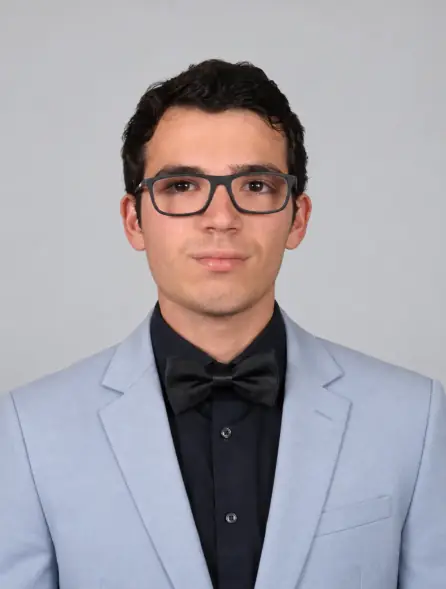
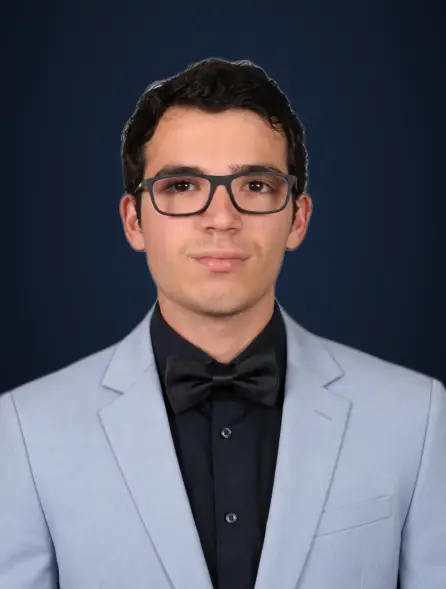
fix(perf,ui): eliminate homepage hydration CLS, blend portrait background, and simplify about section

diff --git a/src/components/sections/About.tsx b/src/components/sections/About.tsx
@@ -6,22 +6,11 @@ import { skills } from '../../data/skills';
 import { languages } from '../../data/education';
 import { useLanguage } from '../../context/LanguageContext';
 import { Icon } from '../icons/Icon';
-import { CrossfadeGallery, type GalleryImage } from '../ui/CrossfadeGallery';
-import { CALM_TRANSITION_EFFECTS } from '../ui/image-transitions/effects';
 import { EducationCard } from './EducationCard';
 import { AntsCursor } from '../ui/AntsCursor';
 import './About.css';
 
-const portraits: Record<'es' | 'en', GalleryImage[]> = {
-  es: [
-    { ...imageAssets['/images/portraits/diego-carnet.webp'], sizes: '(max-width: 768px) 300px, 360px', alt: 'Diego De Pablo con traje azul y gafas', position: 'center 22%' },
-    { ...imageAssets['/images/portraits/diego-formal.webp'], sizes: '(max-width: 768px) 300px, 360px', alt: 'Diego De Pablo con traje formal', position: 'center 22%' },
-  ],
-  en: [
-    { ...imageAssets['/images/portraits/diego-carnet.webp'], sizes: '(max-width: 768px) 300px, 360px', alt: 'Diego De Pablo in blue suit with glasses', position: 'center 22%' },
-    { ...imageAssets['/images/portraits/diego-formal.webp'], sizes: '(max-width: 768px) 300px, 360px', alt: 'Diego De Pablo in formal attire', position: 'center 22%' },
-  ],
-};
+const portraitAsset = imageAssets['/images/portraits/diego-carnet.webp'];
 
 export const About: React.FC = () => {
   const { lang } = useLanguage();
@@ -108,14 +97,16 @@ export const About: React.FC = () => {
 
         <div className="about-image">
           <div className="about-image__frame">
-            <CrossfadeGallery
-              images={portraits[lang]}
-              interval={7_000}
-              initialIndex={1}
-              className="about-portrait-gallery"
-              showControls
-              label={lang === 'en' ? 'Choose Diego portrait' : 'Elegir retrato de Diego'}
-              effects={CALM_TRANSITION_EFFECTS}
+            <img
+              src={portraitAsset.src}
+              srcSet={portraitAsset.srcSet}
+              sizes="(max-width: 768px) 300px, 360px"
+              width={portraitAsset.width}
+              height={portraitAsset.height}
+              alt={lang === 'en' ? 'Diego De Pablo in formal suit with glasses' : 'Diego De Pablo con traje formal y gafas'}
+              className="about-image__img"
+              loading="lazy"
+              decoding="async"
             />
             <div className="about-image__tint" aria-hidden="true" />
           </div>

diff --git a/src/main.tsx b/src/main.tsx
@@ -15,7 +15,10 @@ async function bootstrap() {
   const routeOverrides: RouteOverrides = {};
   if (root.dataset.prerendered && prerenderedPath === currentPath) {
     try {
-      if (currentPath === '/projects') {
+      if (currentPath === '/') {
+        const mod = await import('./components/pages/HomePage');
+        routeOverrides.HomePage = mod.HomePage;
+      } else if (currentPath === '/projects') {
         const mod = await import('./components/pages/ProjectsPage');
         routeOverrides.ProjectsPage = mod.ProjectsPage;
       } else if (currentPath.startsWith('/projects/')) {
@@ -27,13 +30,18 @@ async function bootstrap() {
       } else if (currentPath.startsWith('/blog/')) {
         const mod = await import('./components/blog/BlogPost');
         routeOverrides.BlogPost = mod.BlogPost;
+      } else if (currentPath === '/experience') {
+        const mod = await import('./components/sections/Experience');
+        routeOverrides.Experience = mod.Experience;
       }
     } catch (error) {
       const FailedRoute = () => { throw error; };
-      if (currentPath === '/projects') routeOverrides.ProjectsPage = FailedRoute;
+      if (currentPath === '/') routeOverrides.HomePage = FailedRoute;
+      else if (currentPath === '/projects') routeOverrides.ProjectsPage = FailedRoute;
       else if (currentPath.startsWith('/projects/')) routeOverrides.ProjectDetailPage = FailedRoute;
       else if (currentPath === '/blog') routeOverrides.BlogList = FailedRoute;
       else if (currentPath.startsWith('/blog/')) routeOverrides.BlogPost = FailedRoute;
+      else if (currentPath === '/experience') routeOverrides.Experience = FailedRoute;
     }
   }
 

diff --git a/src/App.tsx b/src/App.tsx
@@ -28,6 +28,7 @@ export interface RouteOverrides {
   BlogList?: React.ComponentType<any>;
   BlogPost?: React.ComponentType<any>;
   NotFoundPage?: React.ComponentType<any>;
+  Experience?: React.ComponentType<any>;
 }
 
 const FAVORITE_PALETTE_CHANCE = 0.4;
@@ -119,6 +120,7 @@ function MainApp({ routeOverrides }: { routeOverrides?: RouteOverrides } = {}) {
   const ResolvedBlogList = routeOverrides?.BlogList ?? BlogList;
   const ResolvedBlogPost = routeOverrides?.BlogPost ?? BlogPost;
   const ResolvedNotFoundPage = routeOverrides?.NotFoundPage ?? NotFoundPage;
+  const ResolvedExperience = routeOverrides?.Experience ?? ExperienceSection;
 
   const [currentPalette, setCurrentPalette] = useState<Palette>(DEFAULT_PALETTE);
   const [enhanced, setEnhanced] = useState(false);
@@ -187,7 +189,7 @@ function MainApp({ routeOverrides }: { routeOverrides?: RouteOverrides } = {}) {
               <Route path="/projects" element={<ResolvedProjectsPage />} />
               <Route path="/projects/circlescope" element={<Navigate to="/projects/instagram-epic-tool" replace />} />
               <Route path="/projects/:id" element={<ResolvedProjectDetailPage />} />
-              <Route path="/experience" element={<main><Suspense fallback={null}><ExperienceSection /></Suspense></main>} />
+              <Route path="/experience" element={<main><Suspense fallback={null}><ResolvedExperience /></Suspense></main>} />
               <Route path="/blog" element={<main><ResolvedBlogList /></main>} />
               <Route path="/blog/:slug" element={<main><ResolvedBlogPost /></main>} />
               <Route path="*" element={<ResolvedNotFoundPage />} />

diff --git a/src/components/sections/About.css b/src/components/sections/About.css
@@ -81,14 +81,16 @@
   transition: top var(--duration-normal) var(--ease-out-expo), left var(--duration-normal) var(--ease-out-expo);
 }
 
-.about-portrait-gallery,
-.about-portrait-gallery .crossfade-gallery__viewport {
+.about-image__img {
+  width: 100%;
+  height: 100%;
+  object-fit: cover;
+  object-position: center 22%;
   border-radius: var(--border-radius);
-}
-
-.about-portrait-gallery .crossfade-gallery__image {
-  filter: grayscale(80%) brightness(0.9);
-  transition: opacity 1.2s var(--ease-out-expo), filter var(--duration-normal) var(--ease-out-expo);
+  display: block;
+  box-shadow: 0 12px 30px -10px rgba(0, 0, 0, 0.5);
+  filter: grayscale(35%) contrast(1.05);
+  transition: filter var(--duration-normal) var(--ease-out-expo);
 }
 
 .about-image__tint {
@@ -96,13 +98,13 @@
   inset: 0;
   border-radius: var(--border-radius);
   background-color: var(--color-accent-2);
-  opacity: 0.15;
+  opacity: 0.12;
   pointer-events: none;
   transition: opacity var(--duration-normal) var(--ease-out-expo);
 }
 
-.about-image__frame:hover .crossfade-gallery__image,
-.about-image__frame:focus-within .crossfade-gallery__image {
+.about-image__frame:hover .about-image__img,
+.about-image__frame:focus-within .about-image__img {
   filter: none;
 }
 
@@ -180,7 +182,7 @@
 
 @media (prefers-reduced-motion: reduce) {
   .about-image__frame::after,
-  .about-portrait-gallery .crossfade-gallery__image,
+  .about-image__img,
   .about-image__tint {
     transition: none;
   }

diff --git a/src/entry-server.tsx b/src/entry-server.tsx
@@ -12,6 +12,7 @@ import { ProjectDetailPage } from './components/pages/ProjectDetailPage';
 import { BlogList } from './components/blog/BlogList';
 import { BlogPost } from './components/blog/BlogPost';
 import { NotFoundPage } from './components/pages/NotFoundPage';
+import { Experience } from './components/sections/Experience';
 
 export const siteUrl = siteConfig.url;
 export const routes = ['/', '/projects', '/experience', '/blog', ...featuredProjects.map(project => `/projects/${project.id}`), ...getAllPosts().map(post => `/blog/${post.slug}`)];
@@ -23,6 +24,7 @@ const serverRoutes: RouteOverrides = {
   BlogList,
   BlogPost,
   NotFoundPage,
+  Experience,
 };
 
 export async function render(url: string) {
